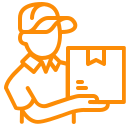
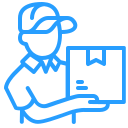
other modifications

Changed region(s): [[0.0312, 0.0, 1.0, 0.9688]]

diff --git a/FrontEnd/src/pages/Home/Home.tsx b/FrontEnd/src/pages/Home/Home.tsx
@@ -153,69 +153,56 @@ const Home = () => {
           </div>
         ))}
       </div>
-
-      {/* Why Choose Us Section */}
-      <div className="text-center">
-        <p className="text-xl sm:text-3xl md:text-5xl font-bold text-black">
-          Why Choose Us
-        </p>
-      </div>
-
-      {/* Rounded Images Section */}
-      <div className="flex flex-col lg:flex-row justify-between items-center gap-8 w-full">
-        {/* Text */}
-        <div className="flex flex-col gap-4 text-center lg:text-left">
-          <p className="text-lg sm:text-3xl md:text-5xl text-primary font-bold">
-            Mola We Got You Covered
-          </p>
-          <p className="text-xl sm:text-3xl md:text-4xl font-bold">
-            Active 24/7 <span className="text-secondary">pour le Continent</span>
-          </p>
-          <p className="text-lg sm:text-3xl md:text-5xl text-primary font-bold">
-            237 4 Life
-          </p>
-        </div>
-
-        {/* Rounded Images */}
-        <div className="flex flex-col sm:flex-row gap-6 items-center">
-          {[images.mola1, images.mola2, images.mola3].map((img, idx) => (
-            <div
-              key={idx}
-              className="w-32 h-32 sm:w-40 sm:h-40 md:w-48 md:h-48 overflow-hidden"
-            >
-              <img
-                src={img}
-                alt="Mola"
-                className="w-full h-full object-cover rounded-full"
-              />
-            </div>
-          ))}
-        </div>
-      </div>
-
+{/* rounded image section */} <div> {/* big text */} <p className="justify-center items-center flex text-xl md:text-5xl font-bold text-black">Why Choose Us</p> </div> {/* rounded images with text */} <div className="flex flex-col lg:flex-row justify-between lg:items-start gap-5 md:gap-10 "> {/* text */} <div className="flex flex-col gap-5 mt-10 lg:mt-50 text-center lg:text-left"> <p className="text-lg sm:text-5xl text-primary font-bold">Mola We Got you Covered</p> <p className="text-xl sm:text-4xl text-black font-bold">Active 24/7 pour le <span>Continent</span></p> <p className="text-lg sm:text-5xl text-primary font-bold">237 4 Life</p> </div> {/* rounded images */} <div className="flex flex-col sm:flex-row lg:flex-row gap-5 items-center lg:items-start"> <div className="w-40 sm:w-50 h-40 sm:h-150 overflow-hidden"> <img src={images.mola1} alt="" className="w-full h-full rounded-t-full rounded-b-full object-cover"/> </div> <div className="w-40 sm:w-50 h-40 sm:h-100 overflow-hidden mt-5 sm:mt-20"> <img src={images.mola2} alt="" className="w-full h-full rounded-t-full rounded-b-full object-cover" /> </div> <div className="w-40 sm:w-50 h-40 sm:h-150 overflow-hidden"> <img src={images.mola3} alt="" className="w-full h-full rounded-t-full rounded-b-full object-cover"/> </div> </div> </div>
       {/* Icon Cards */}
-      <div className="grid grid-cols-1 sm:grid-cols-2 lg:grid-cols-4 gap-6 w-full">
-        {[
-          { img: images.icon1orange, label: "Quick Delivery" },
-          { img: images.icon2orange, label: "Best Quality" },
-          { img: images.icon3orange, label: "Affordable Prices" },
-          { img: images.icon4orange, label: "Customer Support" },
-        ].map((item, idx) => (
-          <div
-            key={idx}
-            className="bg-white p-6 shadow-lg rounded-xl flex flex-col items-center text-center hover:bg-primary hover:text-white transition"
-          >
-            <img
-              src={item.img}
-              alt={item.label}
-              className="w-12 h-12 mb-2 transition group-hover:brightness-0 group-hover:invert"
-            />
-            <p className="text-sm font-bold text-primary group-hover:text-white">
-              {item.label}
-            </p>
-          </div>
-        ))}
-      </div>
+<div className="grid grid-cols-1 sm:grid-cols-2 lg:grid-cols-4 gap-6 w-full">
+  {[
+    {
+      imgDefault: images.icon1orange,
+      imgHover: images.icon1white,
+      label: "Quick Delivery",
+    },
+    {
+      imgDefault: images.icon2orange,
+      imgHover: images.icon2white,
+      label: "Best Quality",
+    },
+    {
+      imgDefault: images.icon3orange,
+      imgHover: images.icon3white,
+      label: "Affordable Prices",
+    },
+    {
+      imgDefault: images.icon4orange,
+      imgHover: images.icon4white,
+      label: "Customer Support",
+    },
+  ].map((item, idx) => (
+    <div
+      key={idx}
+      className="group bg-white p-6 shadow-lg rounded-xl flex flex-col items-center text-center 
+                 hover:bg-primary hover:text-white transition duration-300 cursor-pointer"
+    >
+      {/* swap icon on hover */}
+      <img
+        src={item.imgDefault}
+        alt={item.label}
+        className="w-12 h-12 mb-2 block group-hover:hidden"
+      />
+      <img
+        src={item.imgHover}
+        alt={item.label}
+        className="w-12 h-12 mb-2 hidden group-hover:block"
+      />
+
+      {/* text */}
+      <p className="text-sm font-bold text-primary group-hover:text-white transition">
+        {item.label}
+      </p>
+    </div>
+  ))}
+</div>
+
 
       {/* Description */}
       <div className="text-center max-w-3xl">

diff --git a/FrontEnd/src/types/images.ts b/FrontEnd/src/types/images.ts
@@ -16,6 +16,10 @@ import icon1orange from "../assets/images/icon1orange.png"
 import icon2orange from "../assets/images/icon2orange.png"
 import icon3orange from "../assets/images/icon3orange.png"
 import icon4orange from "../assets/images/icon4orange.png"
+import icon1white from "../assets/images/icon1white.png"
+import icon2white from "../assets/images/icon2white.png"
+import icon3white from "../assets/images/icon3white.png"
+import icon4white from "../assets/images/icon4white.png"
 import chevron from "../assets/images/chevron.png"
 import google from "../assets/images/search.png"
 import logo from "../assets/images/Logo.png";
@@ -39,6 +43,10 @@ icon1orange,
 icon2orange,
 icon3orange,
 icon4orange,
+icon1white,
+icon2white,
+icon3white,
+icon4white,
 chevron,
 google,
 logo
